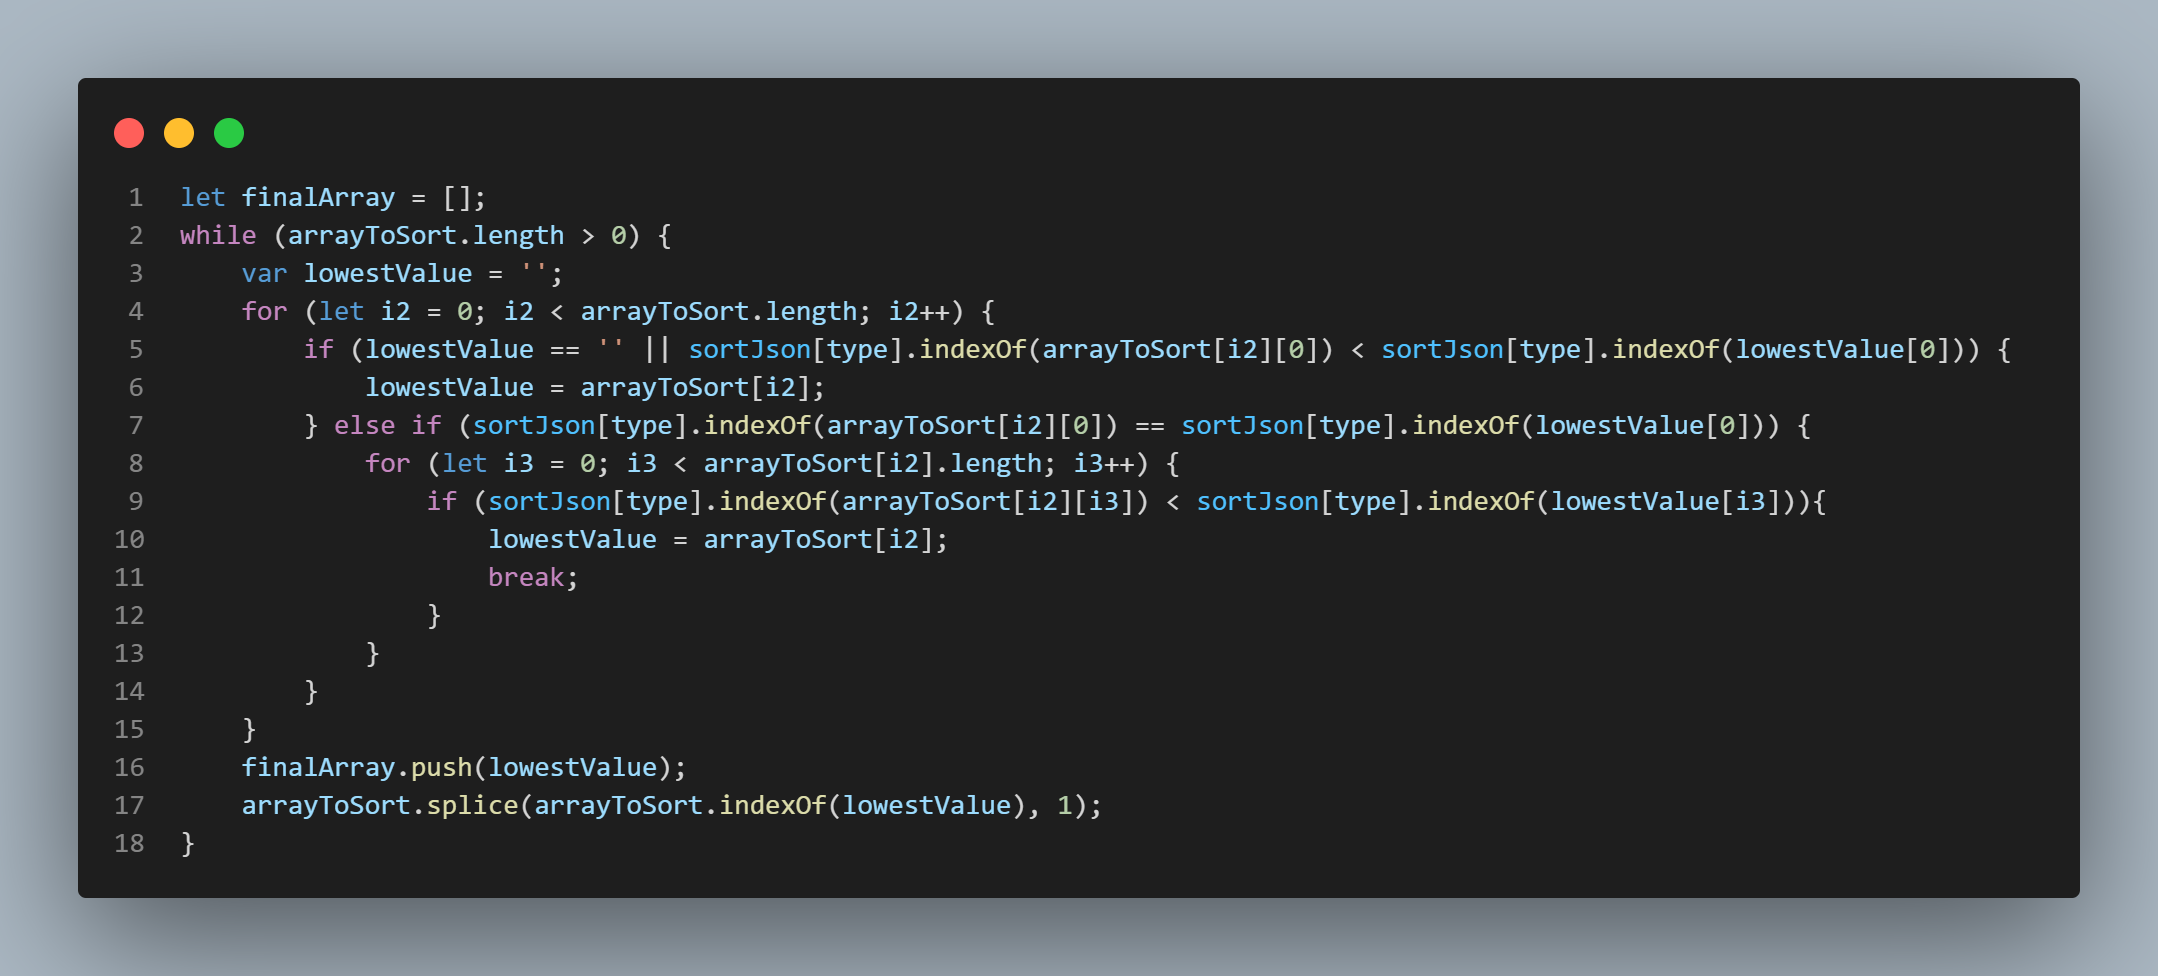
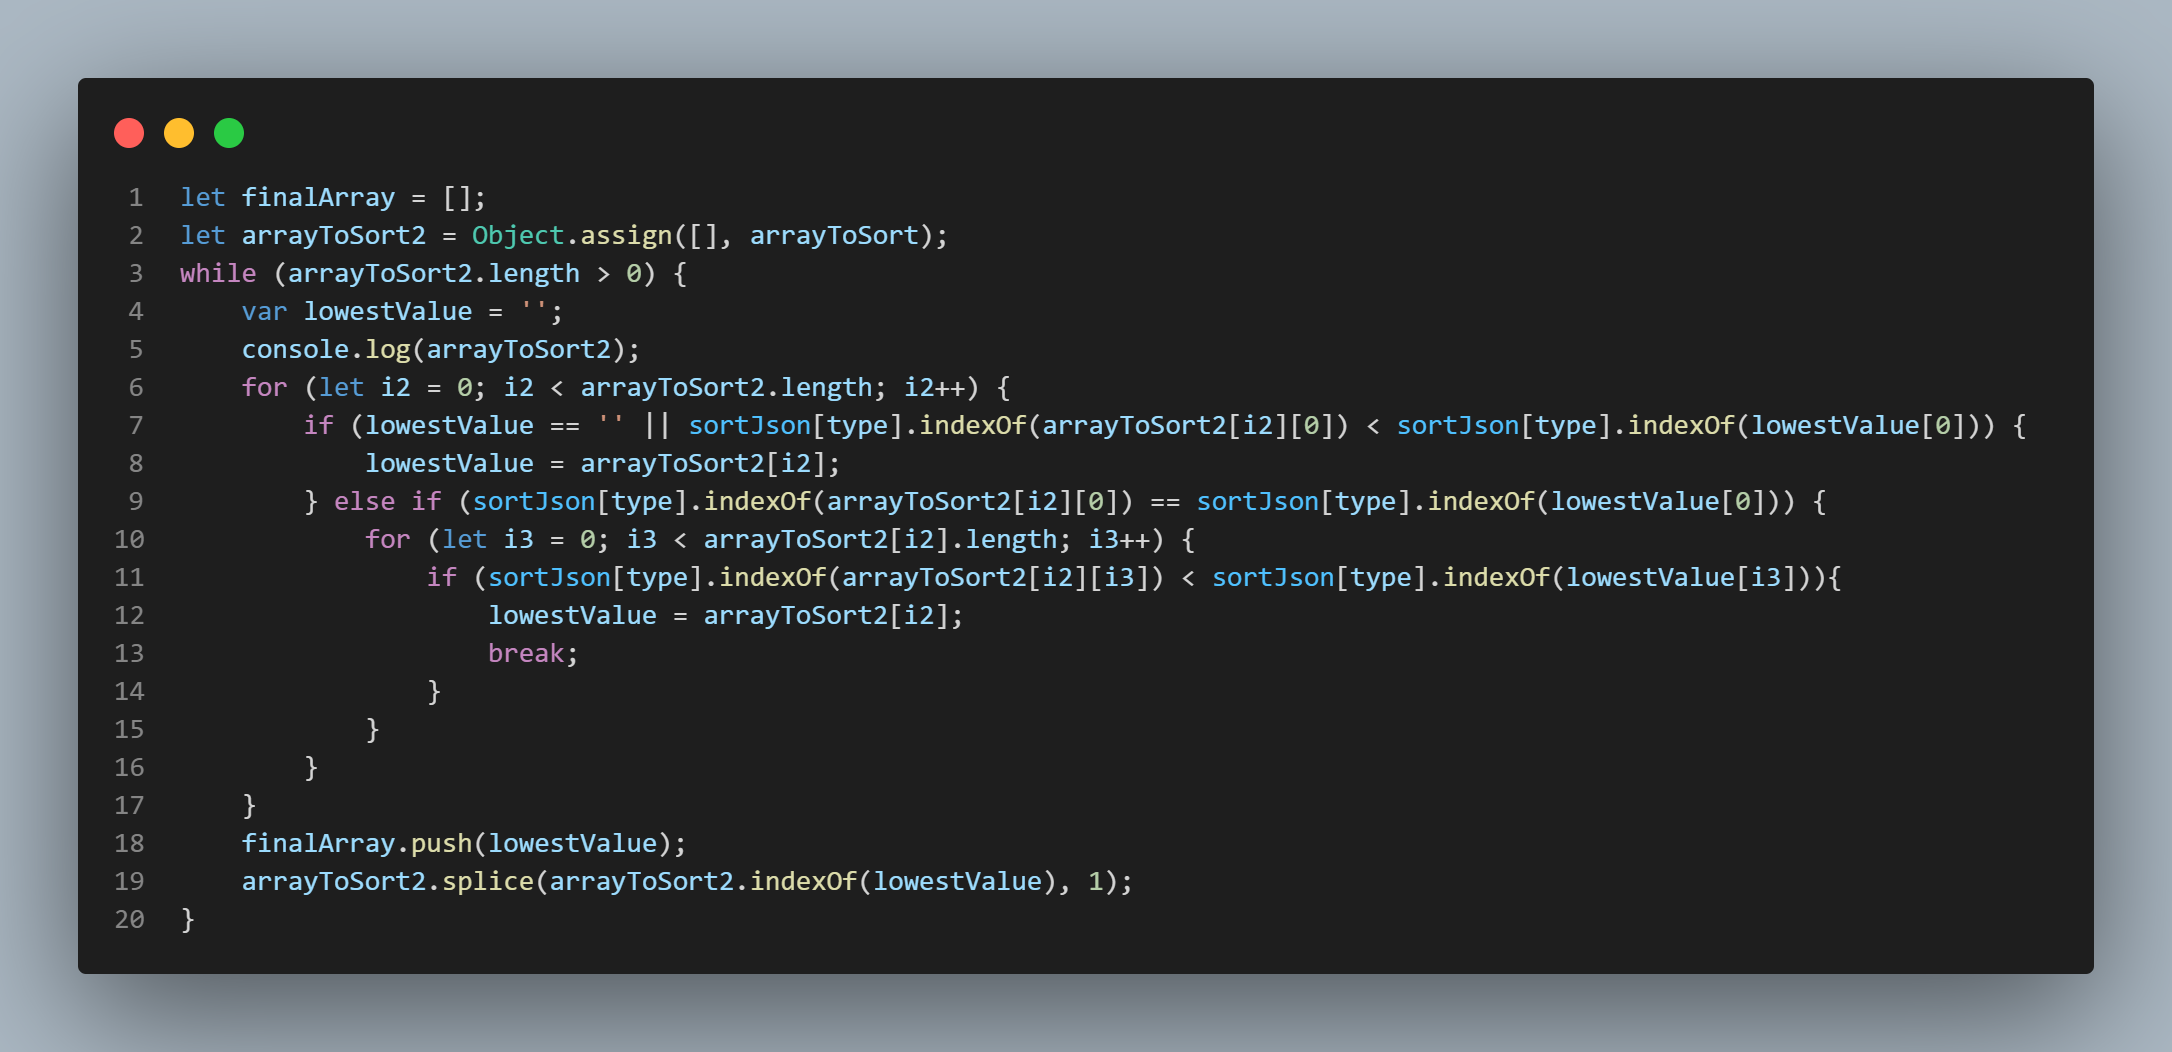
Update for two function calls

diff --git a/main.js b/main.js
@@ -5,22 +5,24 @@ const userInput = require('node:readline').createInterface({input: process.stdin
 
 function sortArray(arrayToSort, type) {
     let finalArray = [];
-    while (arrayToSort.length > 0) {
+    let arrayToSort2 = Object.assign([], arrayToSort);
+    while (arrayToSort2.length > 0) {
         var lowestValue = '';
-        for (let i2 = 0; i2 < arrayToSort.length; i2++) {
-            if (lowestValue == '' || sortJson[type].indexOf(arrayToSort[i2][0]) < sortJson[type].indexOf(lowestValue[0])) { 
-                lowestValue = arrayToSort[i2];
-            } else if (sortJson[type].indexOf(arrayToSort[i2][0]) == sortJson[type].indexOf(lowestValue[0])) {
-                for (let i3 = 0; i3 < arrayToSort[i2].length; i3++) {
-                    if (sortJson[type].indexOf(arrayToSort[i2][i3]) < sortJson[type].indexOf(lowestValue[i3])){
-                        lowestValue = arrayToSort[i2];
+        console.log(arrayToSort2);
+        for (let i2 = 0; i2 < arrayToSort2.length; i2++) {
+            if (lowestValue == '' || sortJson[type].indexOf(arrayToSort2[i2][0]) < sortJson[type].indexOf(lowestValue[0])) { 
+                lowestValue = arrayToSort2[i2];
+            } else if (sortJson[type].indexOf(arrayToSort2[i2][0]) == sortJson[type].indexOf(lowestValue[0])) {
+                for (let i3 = 0; i3 < arrayToSort2[i2].length; i3++) {
+                    if (sortJson[type].indexOf(arrayToSort2[i2][i3]) < sortJson[type].indexOf(lowestValue[i3])){
+                        lowestValue = arrayToSort2[i2];
                         break;
                     }
                 }
             }
         }
         finalArray.push(lowestValue);
-        arrayToSort.splice(arrayToSort.indexOf(lowestValue), 1);
+        arrayToSort2.splice(arrayToSort2.indexOf(lowestValue), 1);
     }
     return finalArray;
 }
@@ -34,6 +36,7 @@ function generateTypeOptions() {
     return toReturn;
 }
 
+console.log('Here is the array sorted in reverse alphabetical order:\n' + (sortArray(arrayToSort, "reverse alphabetical")).join(', '));
 function main() {
     console.log(arrayToSort);
     userInput.question('How would you like to sort the above list? ' + generateTypeOptions().join(', ') + " >>> ", input => { 
